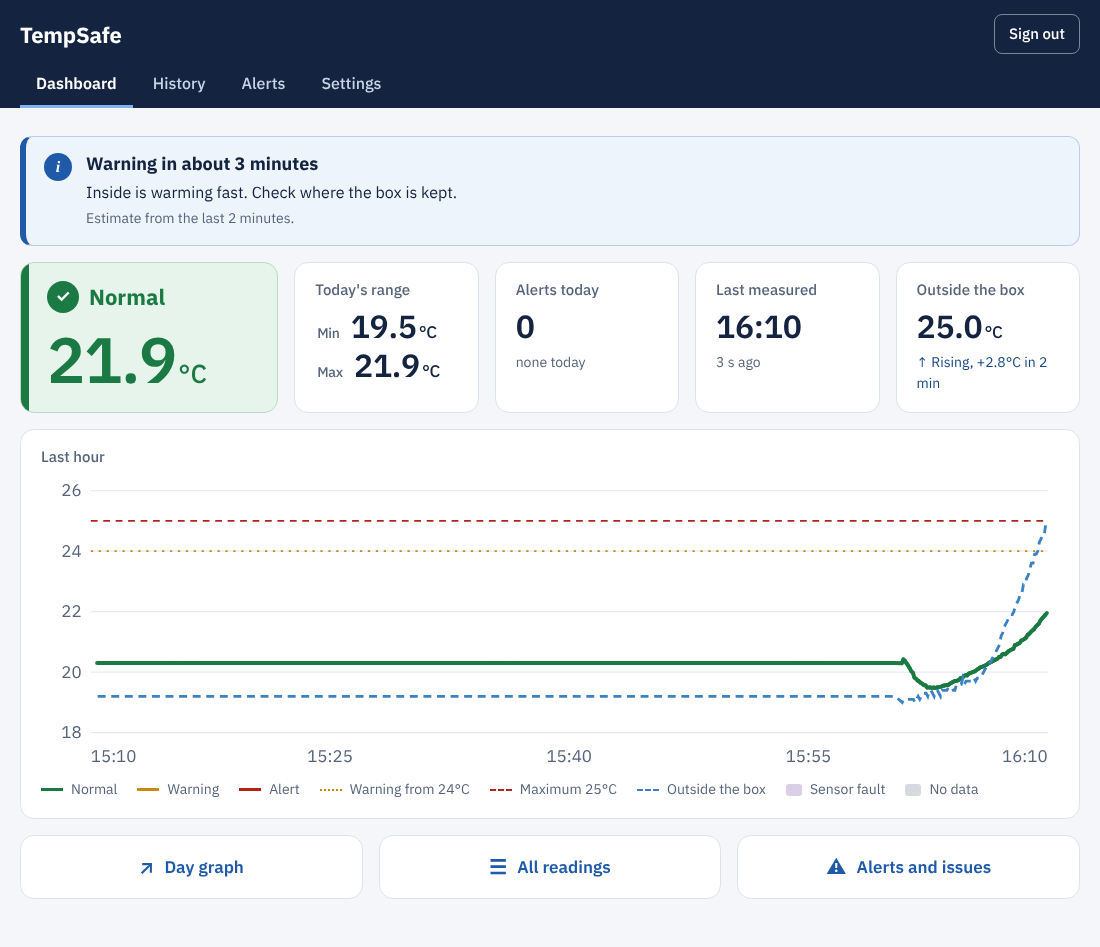
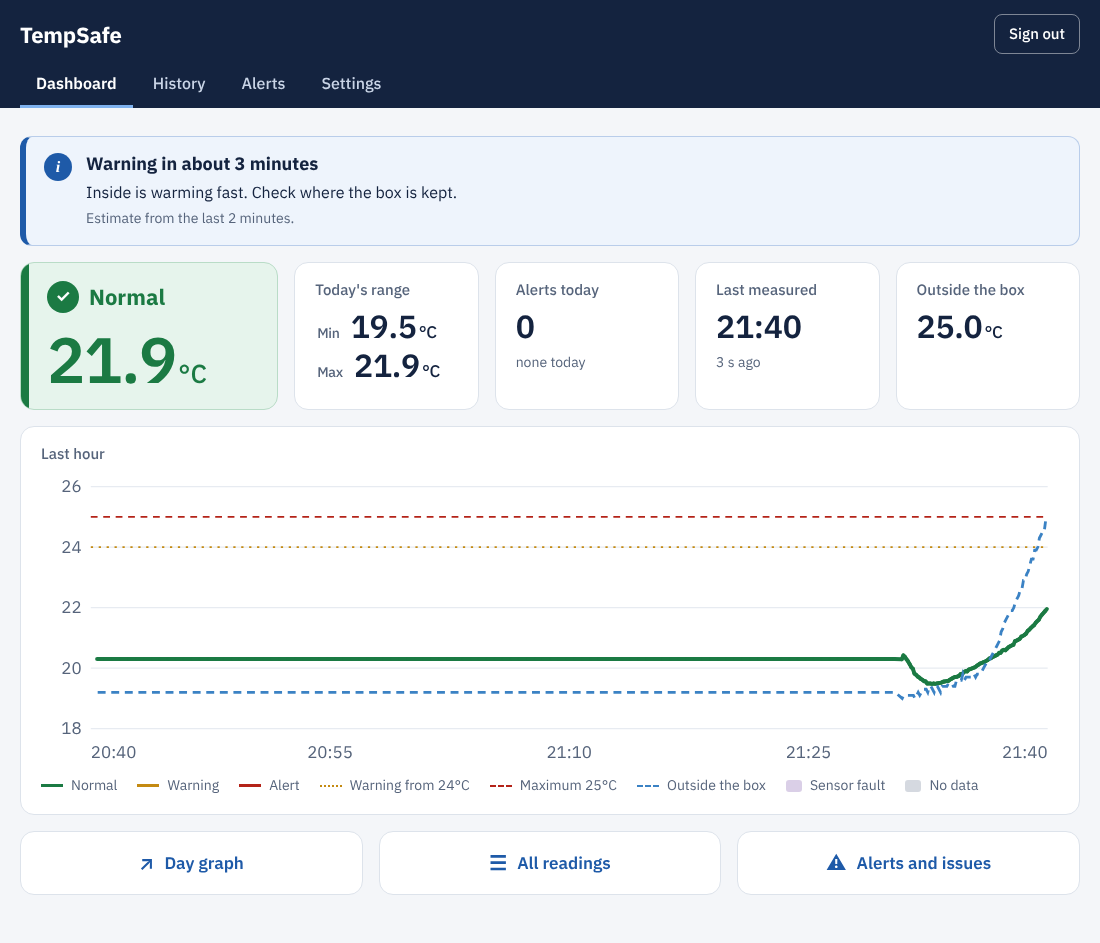
Simpler blue card and outside tile
As Hanna asked for the demo, the blue card appears as soon as the outside reading has reached Warning from of the active profile and is rising, without waiting for the inside. When the inside rise is confirmed, it shows the time as before. The outside tile shows only the temperature. Sensor fault and old data are still shown. Wording, design note, tests D-17 to D-19 and screenshots updated.

diff --git a/frontend/js/dashboard.js b/frontend/js/dashboard.js
@@ -351,23 +351,32 @@ function insideRate() {
     return points.reduce((a, p) => a + (p.t - mt) * (p.v - mv), 0) / den;
 }
 
-// The forecast card is shown only when all of these are true (Hanna's proposal + lecturer):
-// - the outside reading is fresh, has reached "Warning from" of the active profile and is rising;
-// - the inside reading is fresh, valid and still below "Warning from";
-// - the inside rise is confirmed: at least 0.2°C per minute over the last 2 minutes (4+ readings).
-// The time comes from the INSIDE readings only: (Warning from − inside now) ÷ inside rate.
-function warningForecast(profile) {
+// The blue card (Hanna, 22 Nov): shown as soon as the OUTSIDE reading is fresh, has reached
+// "Warning from" of the active profile and is rising (at least
+// +0.3°C in 2 minutes). It does not wait for the inside to rise, so it also shows when
+// only the outside AM2302 is heated in a demo. null when the card is not needed.
+function outsideWarm(profile) {
     const trend = outsideTrend();
-    const inside = recentReadings[0];
     const warning = profile ? Number(profile.warningC) : NaN;
     if (!trend || trend.stale || trend.now === null || trend.change === null || !Number.isFinite(warning)) return null;
+    if (!(trend.now >= warning && trend.change >= 0.3)) return null;
+    const inside = recentReadings[0];
+    const insideWarm = !!inside && inside.quality === 'valid' && Number(inside.temperature_c) >= warning;
+    return {outside: trend.now, warning, insideWarm, forecast: warningForecast(warning)};
+}
+
+// The time in the card (lecturer, 22 Nov) is added only when the inside rise is confirmed:
+// the inside reading is fresh, valid and still below "Warning from", and rising by at least
+// 0.2°C per minute over the last 2 minutes (4+ readings).
+// The time comes from the INSIDE readings only: (Warning from − inside now) ÷ inside rate.
+function warningForecast(warning) {
+    const inside = recentReadings[0];
     if (!inside || inside.quality !== 'valid' || readingGap(inside, {observed_at: new Date().toISOString()})) return null;
     const insideC = Number(inside.temperature_c);
-    if (!(trend.now >= warning && trend.change >= 0.3 && insideC < warning)) return null;
+    if (!(insideC < warning)) return null;
     const rate = insideRate();
     if (rate === null || rate < FORECAST_MIN_RATE) return null;
-    const minutes = ((warning - insideC) / rate) * FORECAST_MARGIN;
-    return {outside: trend.now, inside: insideC, warning, rate, minutes};
+    return {inside: insideC, rate, minutes: ((warning - insideC) / rate) * FORECAST_MARGIN};
 }
 
 // "less than a minute", "about 1 minute", "about 3 minutes" (rounded down, never later than measured).
@@ -380,19 +389,24 @@ function forecastText(minutes) {
 function renderOutsideBanner(profile) {
     const box = document.getElementById('outside-banner');
     if (!box) return;
-    const forecast = alertBanner ? null : warningForecast(profile);
-    if (!forecast) {
+    const warm = alertBanner ? null : outsideWarm(profile);
+    if (!warm) {
         box.innerHTML = '';
         return;
     }
-    const when = forecastText(forecast.minutes);
+    const limit = Number.isInteger(warm.warning) ? String(warm.warning) : warm.warning.toFixed(1);
+    // With a confirmed inside rise the card says when; before that it says why.
+    const text = warm.forecast
+        ? `<h2 id="outside-banner-title">Warning ${forecastText(warm.forecast.minutes)}</h2>
+                <p>Inside is warming fast. Check where the box is kept.</p>
+                <p class="forecast-note">Estimate from the last 2 minutes.</p>`
+        : `<h2 id="outside-banner-title">Outside has reached ${limit}°C and is rising</h2>
+                <p>${warm.insideWarm ? '' : 'The inside may warm up soon. '}Check where the box is kept.</p>`;
     box.innerHTML = `
         <section aria-labelledby="outside-banner-title" class="info-banner" role="status">
             <span aria-hidden="true" class="info-banner-icon">i</span>
             <div>
-                <h2 id="outside-banner-title">Warning ${when}</h2>
-                <p>Inside is warming fast. Check where the box is kept.</p>
-                <p class="forecast-note">Estimate from the last 2 minutes.</p>
+                ${text}
             </div>
         </section>`;
 }
@@ -410,11 +424,8 @@ function outsideTile() {
         return tile('Outside the box', `<span class="value-old">${value}</span>`,
             `Last reading ${formatClock(trend.latest.observed_at)}`, 'tile-outside');
     }
-    // No reading from 2 minutes ago yet (sensor just started): say nothing rather than "Steady".
-    let sub = trend.change === null ? '' : 'Steady';
-    if (trend.change !== null && trend.change >= 0.3) sub = `<span aria-hidden="true">↑</span> Rising, +${trend.change.toFixed(1)}°C in 2 min`;
-    if (trend.change !== null && trend.change <= -0.3) sub = `<span aria-hidden="true">↓</span> Falling, ${trend.change.toFixed(1)}°C in 2 min`;
-    return tile('Outside the box', value, sub, 'tile-outside');
+    // Only the temperature (Hanna, 22 Nov: too many numbers). Rising or not is used by the blue card.
+    return tile('Outside the box', value, '', 'tile-outside');
 }
 
 // Small "Last hour" chart: line coloured by status, dashed limit lines, a few time marks.

diff --git a/frontend/pages/dashboard.html b/frontend/pages/dashboard.html
@@ -4,7 +4,7 @@
     <meta charset="utf-8">
     <meta content="width=device-width, initial-scale=1" name="viewport">
     <title>Dashboard – TempSafe</title>
-    <link href="../css/main.css?v=46" rel="stylesheet">
+    <link href="../css/main.css?v=48" rel="stylesheet">
 </head>
 <body>
 <header class="site-header">
@@ -43,9 +43,9 @@
         <a class="shortcut" href="alerts.html#temperature"><span aria-hidden="true" class="shortcut-icon">⚠</span>Alerts and issues</a>
     </nav>
 </main>
-<script src="../js/api.js?v=46"></script>
-<script src="../js/main.js?v=46"></script>
-<script src="../js/notifications.js?v=46"></script>
-<script src="../js/dashboard.js?v=46"></script>
+<script src="../js/api.js?v=48"></script>
+<script src="../js/main.js?v=48"></script>
+<script src="../js/notifications.js?v=48"></script>
+<script src="../js/dashboard.js?v=48"></script>
 </body>
 </html>

diff --git a/frontend/pages/history.html b/frontend/pages/history.html
@@ -4,7 +4,7 @@
     <meta charset="utf-8">
     <meta content="width=device-width, initial-scale=1" name="viewport">
     <title>History – TempSafe</title>
-    <link href="../css/main.css?v=46" rel="stylesheet">
+    <link href="../css/main.css?v=48" rel="stylesheet">
 </head>
 <body data-page="history">
 <header class="site-header">
@@ -40,9 +40,9 @@
 
     <section aria-busy="true" aria-live="polite" class="card view" id="history" tabindex="-1"></section>
 </main>
-<script src="../js/api.js?v=46"></script>
-<script src="../js/main.js?v=46"></script>
-<script src="../js/notifications.js?v=46"></script>
-<script src="../js/history.js?v=46"></script>
+<script src="../js/api.js?v=48"></script>
+<script src="../js/main.js?v=48"></script>
+<script src="../js/notifications.js?v=48"></script>
+<script src="../js/history.js?v=48"></script>
 </body>
 </html>

diff --git a/frontend/pages/alerts.html b/frontend/pages/alerts.html
@@ -4,7 +4,7 @@
     <meta charset="utf-8">
     <meta content="width=device-width, initial-scale=1" name="viewport">
     <title>Alerts – TempSafe</title>
-    <link href="../css/main.css?v=46" rel="stylesheet">
+    <link href="../css/main.css?v=48" rel="stylesheet">
 </head>
 <body data-page="alerts">
 <header class="site-header">
@@ -40,9 +40,9 @@
 
     <section aria-busy="true" aria-live="polite" class="card view" id="history" tabindex="-1"></section>
 </main>
-<script src="../js/api.js?v=46"></script>
-<script src="../js/main.js?v=46"></script>
-<script src="../js/notifications.js?v=46"></script>
-<script src="../js/history.js?v=46"></script>
+<script src="../js/api.js?v=48"></script>
+<script src="../js/main.js?v=48"></script>
+<script src="../js/notifications.js?v=48"></script>
+<script src="../js/history.js?v=48"></script>
 </body>
 </html>

diff --git a/frontend/pages/settings.html b/frontend/pages/settings.html
@@ -4,7 +4,7 @@
     <meta charset="utf-8">
     <meta content="width=device-width, initial-scale=1" name="viewport">
     <title>Settings – TempSafe</title>
-    <link href="../css/main.css?v=46" rel="stylesheet">
+    <link href="../css/main.css?v=48" rel="stylesheet">
 </head>
 <body>
 <header class="site-header">
@@ -39,9 +39,9 @@
         <p class="muted">Loading…</p>
     </section>
 </main>
-<script src="../js/api.js?v=46"></script>
-<script src="../js/main.js?v=46"></script>
-<script src="../js/notifications.js?v=46"></script>
-<script src="../js/settings.js?v=46"></script>
+<script src="../js/api.js?v=48"></script>
+<script src="../js/main.js?v=48"></script>
+<script src="../js/notifications.js?v=48"></script>
+<script src="../js/settings.js?v=48"></script>
 </body>
 </html>

diff --git a/frontend/index.html b/frontend/index.html
@@ -4,7 +4,7 @@
     <meta charset="utf-8">
     <meta content="width=device-width, initial-scale=1" name="viewport">
     <title>Sign in – TempSafe</title>
-    <link href="css/main.css?v=46" rel="stylesheet">
+    <link href="css/main.css?v=48" rel="stylesheet">
 </head>
 <body>
 <header class="site-header">
@@ -26,8 +26,8 @@
         <button class="btn" type="submit">Sign in</button>
     </form>
 </main>
-<script src="js/api.js?v=46"></script>
-<script src="js/main.js?v=46"></script>
-<script src="js/signin.js?v=46"></script>
+<script src="js/api.js?v=48"></script>
+<script src="js/main.js?v=48"></script>
+<script src="js/signin.js?v=48"></script>
 </body>
 </html>

diff --git a/docs/design/ui/outside-temperature-display.md b/docs/design/ui/outside-temperature-display.md
@@ -19,8 +19,10 @@ That gives three rules for the design:
 1. Never use the status colours (green, amber, red) for the outside reading. It is shown in **blue**, the colour of
    information on this website.
 2. Never show it as **Warning** or **Alert**, and never add it to the notification history.
-3. The blue card is a **forecast**, as the lecturer asked on 22 November and as Hanna proposed after her experiment:
-   it says when the inside may reach Warning. The time comes from the inside readings, is rounded down and says
+3. The blue card appears as soon as the outside has reached Warning from and is rising (Hanna, 22 November), so it
+   also shows in a demo where only the outside AM2302 is heated. When the inside rise is confirmed, the card becomes a
+   **forecast**, as the lecturer asked on 22 November and as Hanna proposed after her experiment: it says when the
+   inside may reach Warning. The time comes from the inside readings, is rounded down and says
    *about*, because it is based on one bench experiment. The card is short (title and one line), because the inside
    and outside values are already in the tiles below it. It is a hint, not a new status: FR-05 has only Normal,
    Warning and Alert, so a small line in the card says that the time is an estimate from the last 2 minutes.
@@ -32,8 +34,8 @@ outside data none of it appears, so the website looks exactly as before until th
 
 | Place                        | What is shown                                                                                                            |
 |------------------------------|--------------------------------------------------------------------------------------------------------------------------|
-| Dashboard · tile             | **Outside the box** `25.5°C` and `↑ Rising, +2.9°C in 2 min`, `↓ Falling …` or `Steady`. An outside fault shows **Sensor fault · No outside temperature**; old data shows the value in grey and `Last reading 20:46` |
-| Dashboard · forecast card  | **Warning in about 2 minutes** · Inside is warming fast. Check where the box is kept. |
+| Dashboard · tile             | **Outside the box** `25.5°C`, only the temperature (Hanna, 22 Nov: fewer numbers). An outside fault shows **Sensor fault · No outside temperature**; old data shows the value in grey and `Last reading 20:46` |
+| Dashboard · blue card      | **Outside has reached 24°C and is rising** · The inside may warm up soon. Check where the box is kept. When the inside rise is confirmed: **Warning in about 2 minutes** · Inside is warming fast. Check where the box is kept. · Estimate from the last 2 minutes. |
 | Last hour and History graphs | A thin **dashed blue line**, *Outside the box* in the legend. It breaks at gaps over 90 s and at outside faults          |
 | Readings table               | Column **Outside °C**: the outside reading closest in time (within 45 s), `Sensor fault`, or `—`                        |
 | CSV download                 | Columns **Inside temperature (°C)** and **Outside temperature (°C)**                                                     |
@@ -44,23 +46,28 @@ the grey **No data** band shows, whatever the outside sensor says.
 
 ![Dashboard with the outside tile, forecast card and dashed line](../../assets/design/outside-temperature/dashboard.png)
 
+![Dashboard demo: only the outside sensor heated, blue card without time](../../assets/design/outside-temperature/outside-warm-card.png)
+
 ![History graph with the outside line](../../assets/design/outside-temperature/history.png)
 
 ![Dashboard on a phone](../../assets/design/outside-temperature/phone.png)
 
-## When the forecast card shows
+## When the blue card shows
 
-All of these must be true, with the limits of the active profile (Hanna's proposed follow-up plus the lecturer's
-request):
+The card is shown when all of these are true, with the limits of the active profile (Hanna, 22 November):
 
-- the newest outside reading is valid, less than 90 s old, has reached **Warning from** (24°C now) and rose by at
-  least 0.3°C over the last 2 minutes;
-- the newest inside reading is valid, fresh and still **below Warning from**;
-- the inside rise is **confirmed**: a straight line through the inside readings of the last 2 minutes (at least 4
-  readings, no gap, no sensor error, reliable time) rises by at least **0.2°C per minute**;
+- the newest outside reading is valid, less than 90 s old and has reached **Warning from** (24°C now);
+- it is **rising**: at least 0.3°C over the last 2 minutes;
 - no Alert banner is showing.
 
-If the rise is not confirmed, the card is not shown.
+It does not wait for the inside to rise. Then it says **Outside has reached 24°C and is rising** and *The inside may
+warm up soon. Check where the box is kept.* If the inside is already at Warning, only *Check where the box is kept.*
+
+The card shows **the time** instead when the inside rise is also confirmed (lecturer's request):
+
+- the newest inside reading is valid, fresh and still **below Warning from**;
+- a straight line through the inside readings of the last 2 minutes (at least 4 readings, no gap, no sensor error,
+  reliable time) rises by at least **0.2°C per minute**.
 
 **The time** is calculated from the inside readings only:
 

diff --git a/docs/testing/web/dual-sensor-frontend-test-2026-11-21.md b/docs/testing/web/dual-sensor-frontend-test-2026-11-21.md
@@ -19,7 +19,7 @@ Browsers: Chrome on desktop (1280 px) and at iPhone width (390 px). Accessibilit
 |------|---------------------------------------------------------------------------|-------------------------------------------------------------------------------------------------------|--------|
 | D-01 | A full day where inside and outside readings alternate (numbers 100, 101, 102 …) | No grey **No data** bands between inside readings; the only band is before the first reading           | Pass   |
 | D-02 | The same day in **Alerts → Status**                                       | One continuous **Normal** period, not split at every outside reading                                  | Pass   |
-| D-03 | Outside warms first (Hanna's run): Dashboard                              | Tile **Outside the box ↑ Rising**; blue forecast card *Warning in about 2 minutes* | Pass   |
+| D-03 | Outside warms first (Hanna's run): Dashboard                              | Tile **Outside the box** with the temperature only; blue forecast card *Warning in about 2 minutes* | Pass   |
 | D-04 | Inside status during D-03                                                 | Still **Normal 22.3°C**; no Warning, Alert or pop-up caused by the outside sensor                     | Pass   |
 | D-05 | History, 1 hour                                                           | Dashed blue *Outside the box* line next to the inside line; listed in the legend                     | Pass   |
 | D-06 | History → Readings and **Download CSV**                                   | Column **Outside °C**; CSV columns `Inside temperature (°C)` and `Outside temperature (°C)`          | Pass   |
@@ -31,6 +31,9 @@ Browsers: Chrome on desktop (1280 px) and at iPhone width (390 px). Accessibilit
 | D-12 | Forecast against Hanna's run, 7 moments (added 22 Nov)                    | The card is never later than the real time inside reached 24°C; no card while outside is below 24°C  | Pass   |
 | D-15 | Short card and Today's range (added 22 Nov)                           | Card shows the title, one line and *Estimate from the last 2 minutes*; Max is never below the temperature shown now | Pass   |
 | D-16 | One alert ends while readings come every 5 s (added 22 Nov)            | One *Back in range* pop-up. Before the fix it repeated every 15 s (24 times), because the alert start left the latest 100 readings | Pass   |
+| D-17 | Site reopened during a new long alert after the previous alert had ended (added 22 Nov) | One *Alert* notification, then one *Back in range* when the temperature is back. Before the fix both were missed, because the new alert was taken for the old one | Pass   |
+| D-18 | Demo: only the outside sensor is heated, inside steady at 21°C (added 22 Nov) | Card *Outside has reached 24°C and is rising* as soon as the outside reaches 24°C and rises; no card while outside is below 24°C or not rising; time card unchanged when the inside rises | Pass   |
+| D-19 | Outside tile (added 22 Nov)                                            | Shows only the outside temperature, no Rising/Falling line; Sensor fault and old data still shown as such | Pass   |
 | D-13 | Inside not rising, rising slower than 0.2°C/min, fewer than 4 readings     | No card (rise not confirmed)                                                                          | Pass   |
 | D-14 | A gap or a sensor error among the last 2 minutes of inside readings       | No card                                                                                               | Pass   |
 
@@ -67,7 +70,7 @@ CSV extract (D-06):
 
 ![D-09 Phone](../../assets/testing/dual-sensor-2026-11-21/08-phone-dashboard.png)
 
-Forecast results (D-12) are listed in [outside-temperature-display.md](../../design/ui/outside-temperature-display.md#when-the-forecast-card-shows).
+Forecast results (D-12) are listed in [outside-temperature-display.md](../../design/ui/outside-temperature-display.md#when-the-blue-card-shows).
 
 ## Not covered
 

diff --git a/docs/design/ui/ui-wording.md b/docs/design/ui/ui-wording.md
@@ -119,12 +119,13 @@ Shown only when the box sends outside readings. It is information, never a statu
 
 | Place                 | Text                                                                                                               |
 |-----------------------|--------------------------------------------------------------------------------------------------------------------|
-| Dashboard tile        | **Outside the box** · `25.5°C` · `↑ Rising, +2.9°C in 2 min` / `↓ Falling, −0.8°C in 2 min` / `Steady`              |
+| Dashboard tile        | **Outside the box** · `25.5°C` (only the temperature) |
 | Tile, outside fault   | **Sensor fault** · No outside temperature                                                                          |
 | Tile, old data        | Value in grey · `Last reading 20:46`                                                                               |
+| Blue card (outside warm) | **Outside has reached 24°C and is rising** · The inside may warm up soon. Check where the box is kept. (inside already at Warning: Check where the box is kept.) |
 | Forecast card         | **Warning in about 2 minutes** · Inside is warming fast. Check where the box is kept. · Estimate from the last 2 minutes. (`in about 1 minute`, `in less than a minute`) |
 | Graph legend          | Outside the box (dashed blue line)                                                                                 |
 | Readings column       | **Outside °C** (`25.5`, `Sensor fault` or `—`)                                                                     |
 | CSV columns           | `Inside temperature (°C)`, `Outside temperature (°C)`                                                              |
 
-See [outside-temperature-display.md](outside-temperature-display.md) for when the forecast card shows and how the time is calculated.
+See [outside-temperature-display.md](outside-temperature-display.md) for when the blue card shows and how the time is calculated.
